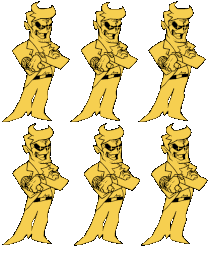
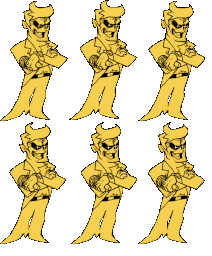
menu offsets

diff --git a/src/character/menuo.c b/src/character/menuo.c
@@ -39,12 +39,12 @@ typedef struct
 
 //MenuO character definitions
 static const CharFrame char_menuo_frame[] = {
-	{MenuO_ArcMain_Dad, {  2,   1,  68, 121}, { 42, 183+3}}, //0 idle 1
-	{MenuO_ArcMain_Dad, { 70,   2,  68, 120}, { 43, 183+2}}, //1 idle 2
-	{MenuO_ArcMain_Dad, {138,   1,  68, 121}, { 43, 183+3}}, //2 idle 3
-	{MenuO_ArcMain_Dad, {  2, 123,  67, 122}, { 42, 183+4}}, //3 idle 4
-	{MenuO_ArcMain_Dad, { 74, 123,  66, 123}, { 42, 183+4}}, //4 idle 5
-	{MenuO_ArcMain_Dad, {141, 123,  67, 123}, { 42, 183+4}}, //5 idle 6
+	{MenuO_ArcMain_Dad, {  0,   1,  68, 121}, { 26 + 30, 115 + 68}}, //0 idle 1
+	{MenuO_ArcMain_Dad, { 69,   0,  68, 120}, { 27 + 30, 115 + 68}}, //1 idle 2
+	{MenuO_ArcMain_Dad, {138,   1,  68, 121}, { 27 + 30, 115 + 68}}, //2 idle 3
+	{MenuO_ArcMain_Dad, {  0, 123,  66, 122}, { 26 + 30, 116 + 68}}, //3 idle 4
+	{MenuO_ArcMain_Dad, { 71, 122,  66, 123}, { 26 + 30, 117 + 68}}, //4 idle 5
+	{MenuO_ArcMain_Dad, {138, 122,  67, 123}, { 26 + 30, 117 + 68}}, //5 idle 6
 
 	{MenuO_ArcMain_Spook, {  0,   0,  58,  84}, { 42, 153+3}}, //6 idle 1
 	{MenuO_ArcMain_Spook, { 60,   0,  58,  83}, { 43, 153+2}}, //7 idle 2
@@ -55,7 +55,7 @@ static const CharFrame char_menuo_frame[] = {
 };
 
 static const Animation char_menuo_anim[CharAnim_Max] = {
-	{2, (const u8[]){ 0,  1,  2,  3,  4,  5, ASCR_CHGANI, CharAnim_Idle}}, //CharAnim_Idle
+	{1, (const u8[]){ 0, 0, 1,  1,  2, 2, 3, 3,  4, 4, 5, 5, 5, 5, 5, 5, 5, 5, 5, 5, 5, 5, 5, 5, 5, 5, 5, 5, ASCR_CHGANI, CharAnim_Idle}}, //CharAnim_Idle
 	{2, (const u8[]){ 6,  7,  8,  9, 10, 11, 8,  9, ASCR_CHGANI, CharAnim_Left}},         //CharAnim_Left
 	{0, (const u8[]){ASCR_CHGANI, CharAnim_Idle}},   //CharAnim_LeftAlt
 	{2, (const u8[]){ 6,  7, ASCR_BACK, 1}},         //CharAnim_Down

diff --git a/src/character/menup.c b/src/character/menup.c
@@ -40,19 +40,19 @@ typedef struct
 
 //Menu BF player definitions
 static const CharFrame char_menubf_frame[] = {
-	{BF_ArcMain_BF0, {  1,   1, 109, 105}, { 99, 104}}, //0 idle 1
-	{BF_ArcMain_BF0, {112,   1, 107, 106}, { 98, 106}}, //1 idle 2
-	{BF_ArcMain_BF0, {  3, 112, 109, 109}, { 99, 109}}, //2 idle 3
-	{BF_ArcMain_BF0, {122, 112, 109, 109}, { 99, 109}}, //3 idle 4
+	{BF_ArcMain_BF0, {  0,   0, 100,  97}, { 54,  92}}, //0 idle 1
+	{BF_ArcMain_BF0, {101,   0, 101,  97}, { 54,  92}}, //1 idle 2
+	{BF_ArcMain_BF0, {  0, 98, 100, 98}, { 53,  93}}, //2 idle 3
+	{BF_ArcMain_BF0, {101, 98, 100, 101}, { 53,  96}}, //3 idle 4
 	
-	{BF_ArcMain_BF1, {  4,   2, 105, 112}, { 99, 110}}, //4 peace 1
-	{BF_ArcMain_BF1, {115,   4, 110, 110}, { 99, 108}}, //5 peace 2
-	{BF_ArcMain_BF1, {  5, 124, 111, 110}, { 99, 108}}, //6 peace 3
+	{BF_ArcMain_BF1, {  0,   0,  98, 104}, { 55,  99}}, //13 peace 1
+	{BF_ArcMain_BF1, { 99,   0, 103, 103}, { 55,  97}}, //14 peace 2
+	{BF_ArcMain_BF1, {  0, 105, 104, 103}, { 55,  97}}, //15 peace 3
 };
 
 static const Animation char_menubf_anim[PlayerAnim_Max] = {
-	{2, (const u8[]){ 0,  1,  2,  3,  3,  3,  3,  3,  3, ASCR_CHGANI, CharAnim_Idle}}, //CharAnim_Idle
-	{2, (const u8[]){ 4,  5,  6,  6,  6,  6,  6,  6,  6,  6,  ASCR_BACK, 1}},             //CharAnim_Left
+	{1, (const u8[]){ 0, 0,  1, 1,  2, 2,  3, 3, 3, 3, 3, 3, 3, 3, ASCR_CHGANI, CharAnim_Idle}}, //CharAnim_Idle
+	{1, (const u8[]){ 4, 4, 4, 5, 5,  6,  6,  6,  6,  6,  6,  6,  6,  ASCR_BACK, 1}},             //CharAnim_Left
 	{0, (const u8[]){ASCR_CHGANI, CharAnim_Idle}},       //CharAnim_LeftAlt
 	{2, (const u8[]){ 7,  8, ASCR_BACK, 1}},             //CharAnim_Down
 	{0, (const u8[]){ASCR_CHGANI, CharAnim_Idle}},       //CharAnim_DownAlt

diff --git a/src/menu/menu.c b/src/menu/menu.c
@@ -328,7 +328,7 @@ void Menu_Load2(MenuPage page)
 	
 	//Initialize Girlfriend, Menu BF, Menu Opponents and stage
 	menu.gf = Char_GF_New(FIXED_DEC(62,1), FIXED_DEC(-12,1));
-	menu.bf = Char_BF_New(FIXED_DEC(45,1), FIXED_DEC( 24,1));
+	menu.bf = Char_BF_New(FIXED_DEC(0,1), FIXED_DEC( 17,1));
 	menu.opponent = Char_MenuO_New(FIXED_DEC(-90,1), FIXED_DEC(84,1));
 	stage.camera.x = stage.camera.y = FIXED_DEC(0,1);
 	stage.camera.bzoom = FIXED_UNIT;
